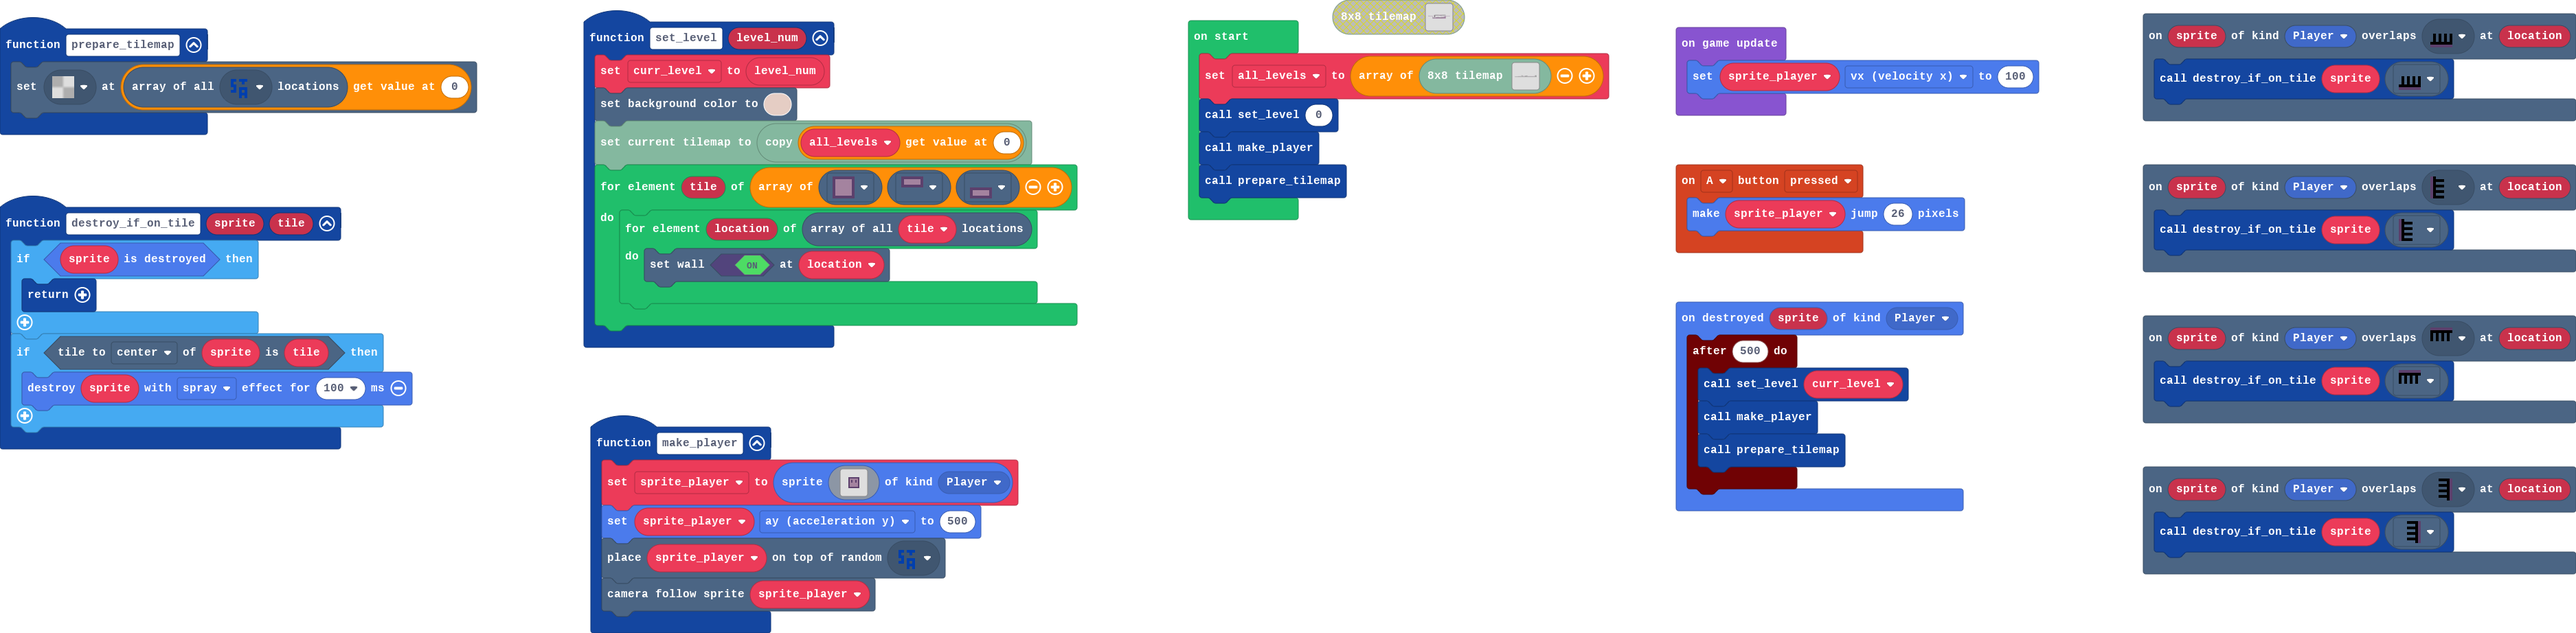
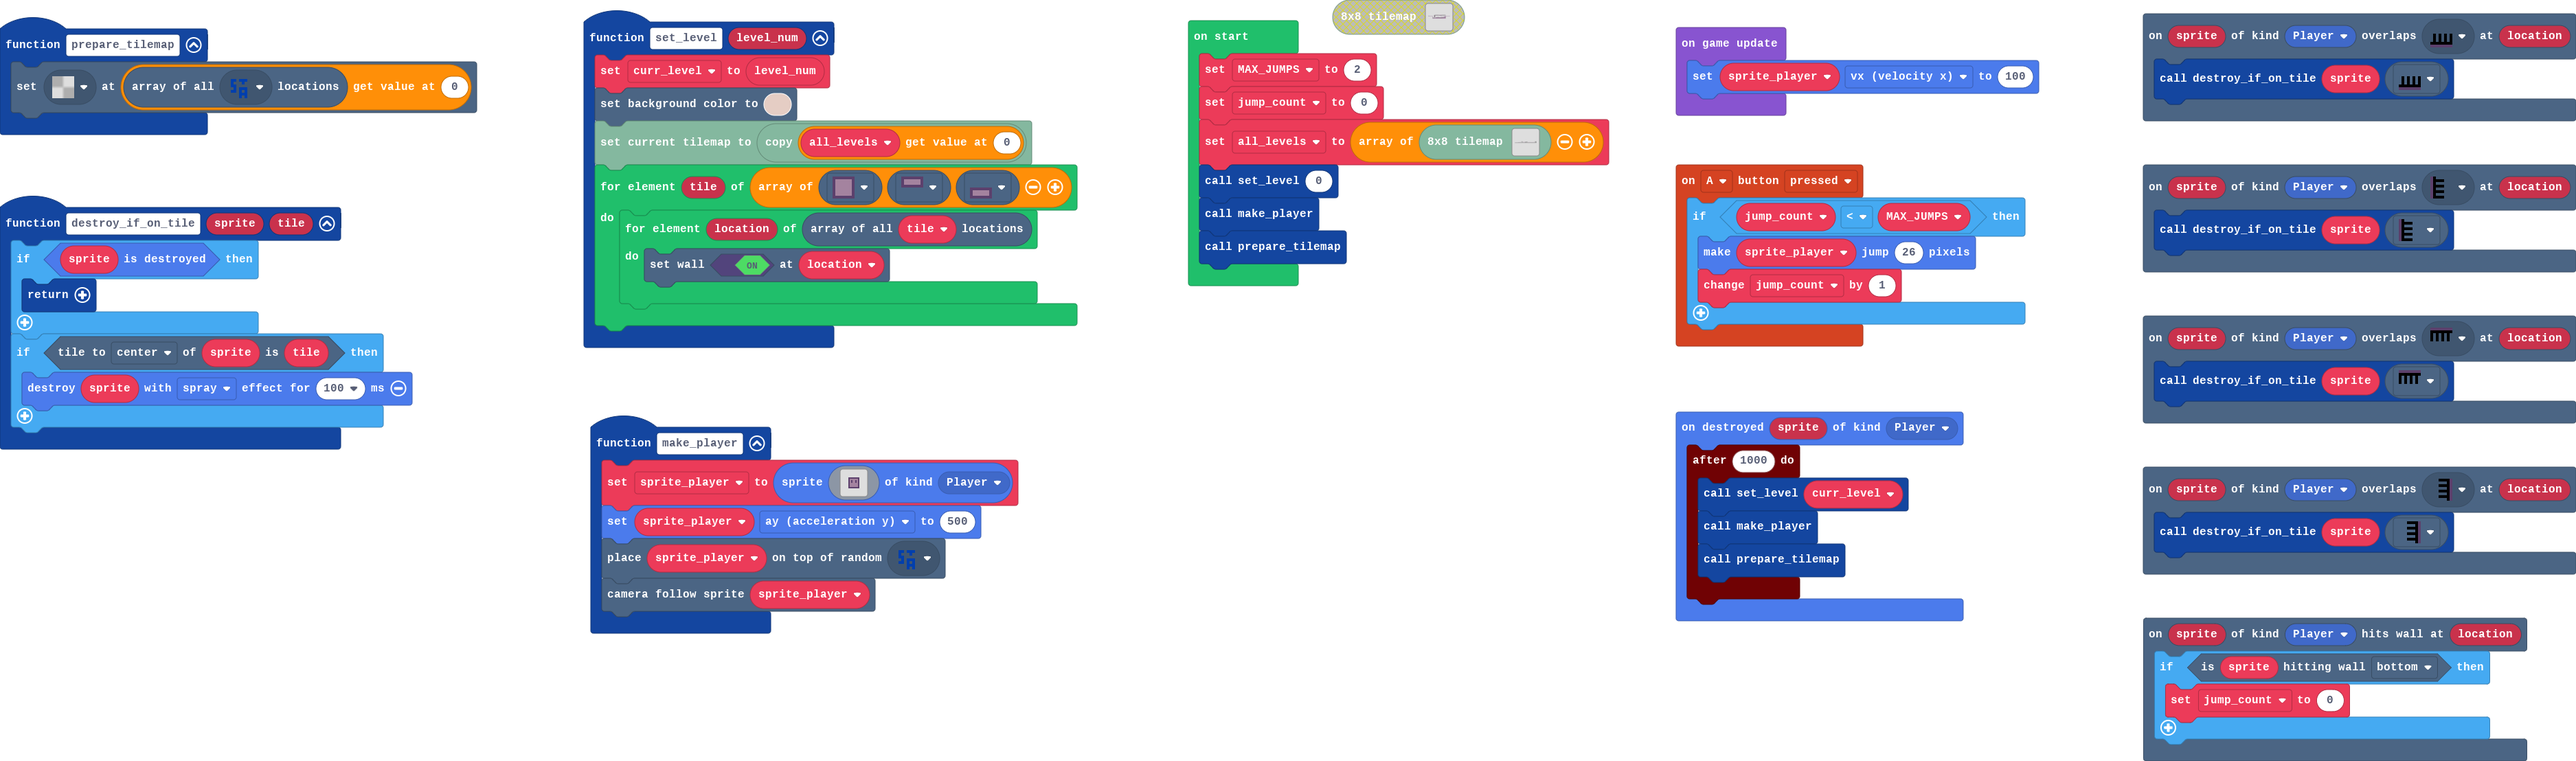
Allow double jumps only

diff --git a/tilemap.g.ts b/tilemap.g.ts
@@ -82,24 +82,6 @@ namespace myTiles {
 ....................................................................................................
 ....................................................................................................
 `, [myTiles.transparency8,myTiles.tile1,myTiles.tile2,myTiles.tile4,myTiles.tile5,myTiles.tile6,myTiles.tile7], TileScale.Eight);
-            case "level_1":
[1 lines of base64/hex data omitted]
-...............................................................................................................................................................................................................................................................
-...............................................................................................................................................................................................................................................................
-...............................................................................................................................................................................................................................................................
-...............................................................................................................................................................................................................................................................
-...............................................................................................................................................................................................................................................................
-...............................................................................................................................................................................................................................................................
-...............................................................................................................................................................................................................................................................
-...............................................................................................................................................................................................................................................................
-...............................................................................................................................................................................................................................................................
-...............................................................................................................................................................................................................................................................
-...............................................................................................................................................................................................................................................................
-...............................................................................................................................................................................................................................................................
-...............................................................................................................................................................................................................................................................
-...............................................................................................................................................................................................................................................................
-...............................................................................................................................................................................................................................................................
-`, [myTiles.transparency8,myTiles.tile1,myTiles.tile2,myTiles.tile6,myTiles.tile7,myTiles.tile9,myTiles.tile4,myTiles.tile8], TileScale.Eight);
             case "level5":
             case "level5":return tiles.createTilemap(hex`1000100000000000000000000000000000000000000000000000000000000000000000000000000000000000000000000000000000000000000000000000000000000000000000000000000000000000000000000000000000000000000000000000000000000000000000000000000000000000000000000000000000000000000000000000000000000000000000000000000000000000000000000000000000000000000000000000000000000000000000000000000000000000000000000000000000000000000000000000000000000000000000000000000000000000000000000000000000000000000000000000000000000000000000000000000000000000`, img`
 . . . . . . . . . . . . . . . . 
@@ -119,6 +101,24 @@ namespace myTiles {
 . . . . . . . . . . . . . . . . 
 . . . . . . . . . . . . . . . . 
 `, [myTiles.transparency16], TileScale.Sixteen);
+            case "level_1":
[1 lines of base64/hex data omitted]
+...............................................................................................................................................................................................................................................................
+...............................................................................................................................................................................................................................................................
+...............................................................................................................................................................................................................................................................
+...............................................................................................................................................................................................................................................................
+...............................................................................................................................................................................................................................................................
+...............................................................................................................................................................................................................................................................
+...............................................................................................................................................................................................................................................................
+...............................................................................................................................................................................................................................................................
+...............................................................................................................................................................................................................................................................
+...............................................................................................................................................................................................................................................................
+...............................................................................................................................................................................................................................................................
+...............................................................................................................................................................................................................................................................
+...............................................................................................................................................................................................................................................................
+...............................................................................................................................................................................................................................................................
+...............................................................................................................................................................................................................................................................
+`, [myTiles.transparency8,myTiles.tile1,myTiles.tile2,myTiles.tile6,myTiles.tile7,myTiles.tile9,myTiles.tile4,myTiles.tile8], TileScale.Eight);
         }
         return null;
     })

diff --git a/main.ts b/main.ts
@@ -1,3 +1,8 @@
+scene.onHitWall(SpriteKind.Player, function (sprite, location) {
+    if (sprite.isHittingTile(CollisionDirection.Bottom)) {
+        jump_count = 0
+    }
+})
 scene.onOverlapTile(SpriteKind.Player, assets.tile`spikes_left`, function (sprite, location) {
     destroy_if_on_tile(sprite, assets.tile`spikes_left`)
 })
@@ -12,7 +17,10 @@ function set_level (level_num: number) {
     }
 }
 controller.A.onEvent(ControllerButtonEvent.Pressed, function () {
-    spriteutils.jumpImpulse(sprite_player, 26)
+    if (jump_count < MAX_JUMPS) {
+        spriteutils.jumpImpulse(sprite_player, 26)
+        jump_count += 1
+    }
 })
 function prepare_tilemap () {
     tiles.setTileAt(tiles.getTilesByType(assets.tile`start_tile`)[0], assets.tile`transparency8`)
@@ -41,7 +49,7 @@ scene.onOverlapTile(SpriteKind.Player, assets.tile`spikes_up0`, function (sprite
     destroy_if_on_tile(sprite, assets.tile`spikes_up0`)
 })
 sprites.onDestroyed(SpriteKind.Player, function (sprite) {
-    timer.after(500, function () {
+    timer.after(1000, function () {
         set_level(curr_level)
         make_player()
         prepare_tilemap()
@@ -50,6 +58,10 @@ sprites.onDestroyed(SpriteKind.Player, function (sprite) {
 let sprite_player: Sprite = null
 let curr_level = 0
 let all_levels: tiles.WorldMap[] = []
+let jump_count = 0
+let MAX_JUMPS = 0
+MAX_JUMPS = 2
+jump_count = 0
 all_levels = [tiles.createSmallMap(tilemap`level_1`)]
 set_level(0)
 make_player()
